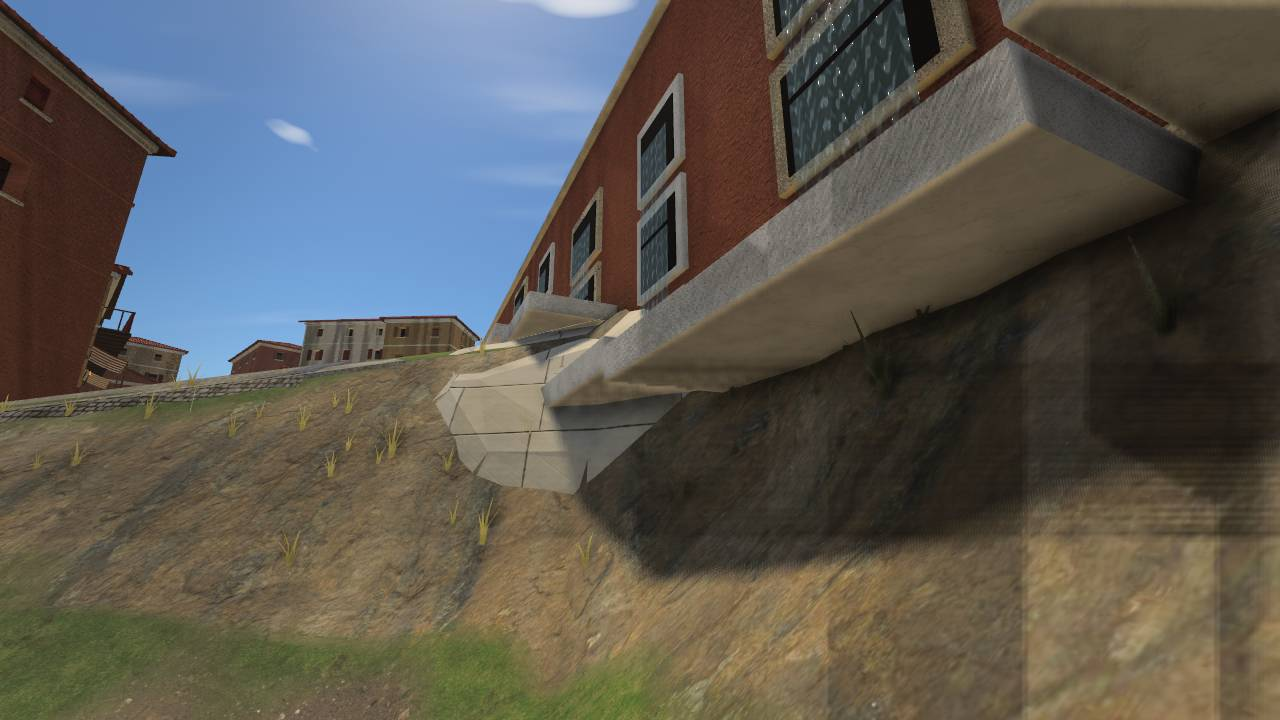
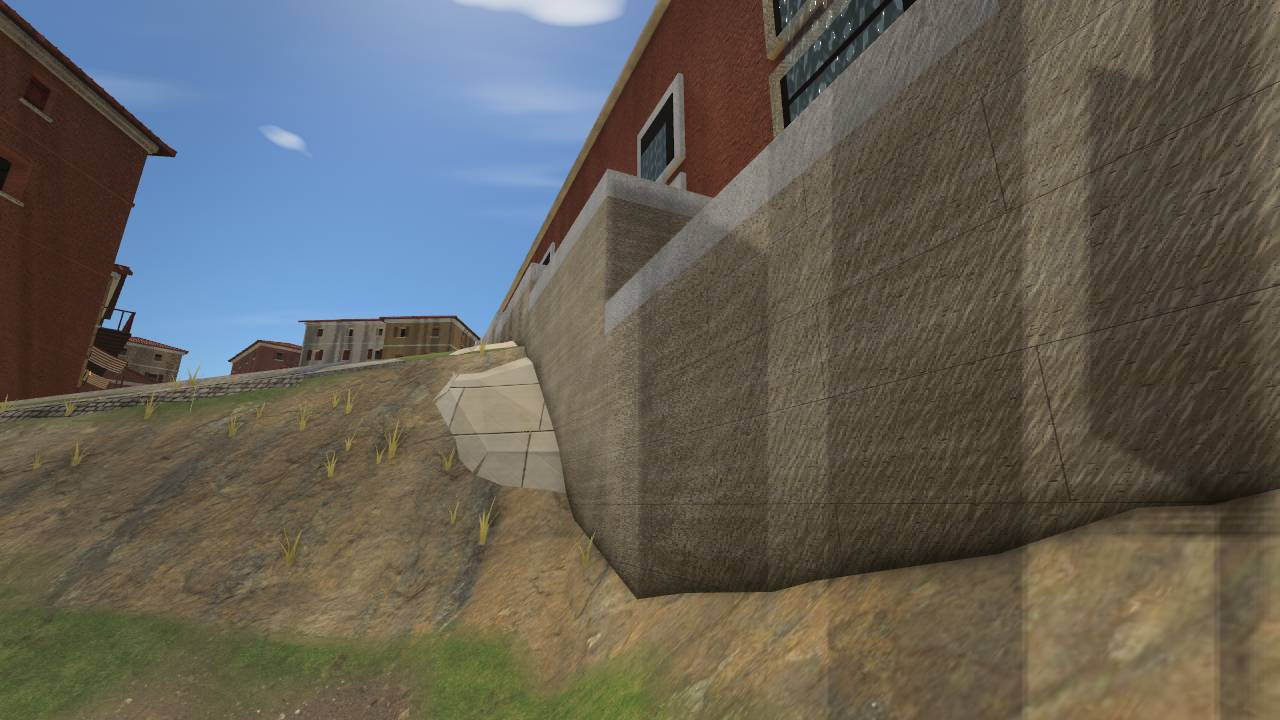
L-EAST: second-tier mouths leave the walkable vomitoria alone; bridge treads; shots

diff --git a/src/world/landmarks/builders/colos-colosseum.ts b/src/world/landmarks/builders/colos-colosseum.ts
@@ -1236,13 +1236,16 @@ function buildCavea(ctx: LandmarkContext, L: ColosseumLayout, cav: MeshBuilder, 
     // Cheeks (side parapets) and lintel.
     // The cheeks stand on the ground (the cut rows beside them are one-sided sweeps, so a cheek that
     // began at the balteus hung over the arena floor), and the mouth's floor on a solid block.
+    // (A mouth of the second tier on the same radial line as a walkable stair of the first leaves the
+    // stair's passage alone.)
+    const overStair = vomWalk.some((tw) => Math.abs(tw - t) < 1e-6);
     for (const sx of [-1, 1]) {
-      span(cav, 'marble', fr, sx * hw, 0, -xFront, sx * (hw + 0.35), lintelTop + 0.45, -xBack, true);
+      span(cav, 'marble', fr, sx * hw, overStair ? y0 : 0, -xFront, sx * (hw + 0.35), lintelTop + 0.45, -xBack, true);
     }
     span(cav, 'marble', fr, -hw, lintel, -xFront, hw, lintelTop, -xBack, true);
     if (!walkable) {
       span(cav, 'black', fr, -hw, y0, -(xBack - 0.05), hw, lintelTop, -(xBack + 0.4), true, false);
-      span(cav, 'concrete', fr, -hw, 0, -xFront, hw, y0, -xBack, true, false);
+      span(cav, 'concrete', fr, -hw, overStair ? y0 - 0.05 : 0, -xFront, hw, y0, -xBack, !overStair, false);
       return;
     }
     // Walkable: a passage from ring 3 at ground level climbing to the balteus.

diff --git a/src/world/bridges/geometry.ts b/src/world/bridges/geometry.ts
@@ -168,12 +168,16 @@ export function buildStoneBridge(b: MeshBuilder, frame: THREE.Matrix4, inp: Brid
       const n = Math.max(1, Math.ceil(Math.abs(y1 - y0) / 0.18));
       const dir = Math.sign(y1 - y0) || 1;
       const run = (u1 - u0) / n;
-      const base = Math.min(y0, y1) - 0.1;
       for (let k = 0; k < n; k++) {
         const ua = u0 + run * k;
         const ub = ua + run;
         // The tread's top: the line's height at its UPHILL end (so every tread sits on or above the sloped body).
         const top = dir > 0 ? y0 + (y1 - y0) * ((k + 1) / n) : y0 + (y1 - y0) * (k / n);
+        // 0.5 m deep: the body under the flight carries the rest (a tread box as tall as the whole run
+        // read as a wall whose foot hangs over the bank).
+        // The lowest tread of a flight goes down to the ground at its foot.
+        const footTread = k === (dir > 0 ? 0 : n - 1);
+        const base = footTread ? Math.min(top - 0.5, (inp.foot ?? ground)(dir > 0 ? ua : ub) - 0.1) : top - 0.5;
         d.box('paving_basalt', (ua + ub) / 2, (top + base) / 2, 0, run + 0.02, top - base, width, { collide: true });
       }
     } else {
